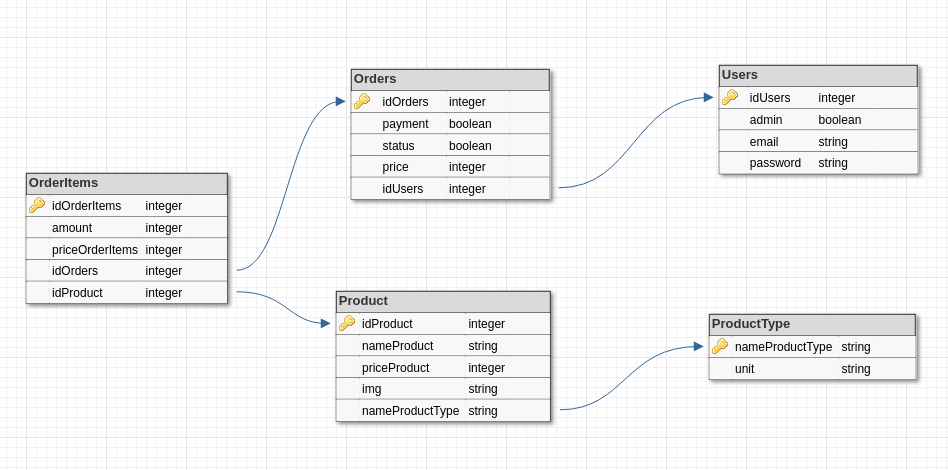
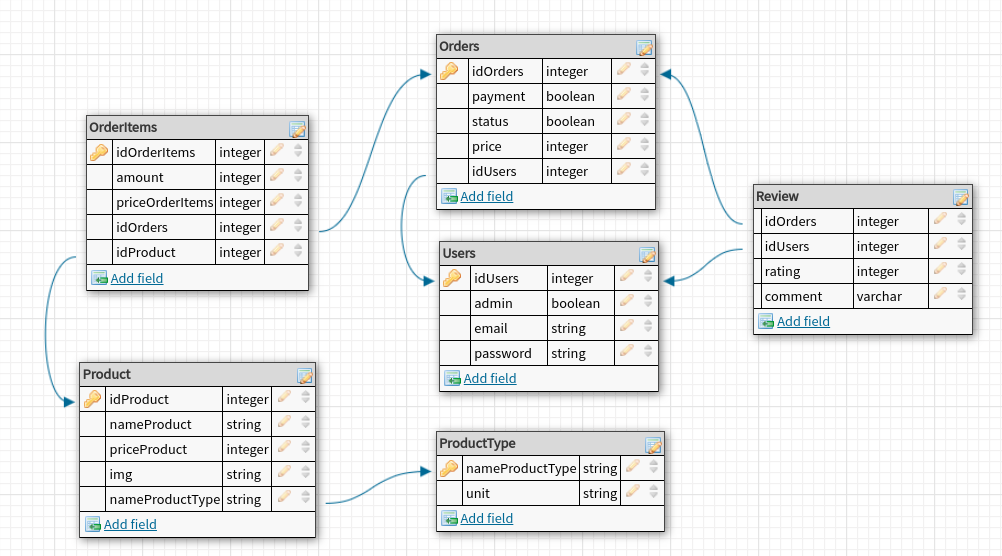
Update database

Changed region(s): [[0.0, 0.0596, 0.9789, 0.983], [0.7036, 0.6553, 0.9789, 0.834], [0.7036, 0.2979, 0.7342, 0.3277]]

diff --git a/third_sprint/database.tex b/third_sprint/database.tex
@@ -10,9 +10,9 @@
 
 \begin{itemize}
   \item[\textbf{Users:}] Contains the Users, both admins and non-admins. The
-    email is used to identify User at login, so no username is needed.
+    email is used to identify the User at login, so no username is needed.
   \item[\textbf{Orders:}] Used to represent the shopping basket before an
-    Order was made (\mintinline{python}{payment == False}) an Order that has
+    Order was made (\mintinline{python}{payment == False}), an Order that has
     been paid but not yet processed and shipped (\mintinline{python}{payment
     == True and status == False}), as well as finished Orders
     (\mintinline{python}{status == True}). Each Order has one User.
@@ -23,7 +23,13 @@
     price of the Product at the time it was paid.
   \item[\textbf{ProductType:}] The different possible types of a product. With
     each ProductType there is an associated unit in which a given amount
-    of that ProductType is measured.
-  \item[\textbf{Product:}] The merchandise, including name, price, image and
-    ProductType.
+    of that ProductType is measured. These can be used when searching for
+    products.
+  \item[\textbf{Product:}] The merchandise, including name, availability,
+  price, image and ProductType. Price and availability are used for sorting.
+  \item[\textbf{Review:}] A review by a User on a Product, containing a rating
+    and an optional comment. Only one review per product is allowed, if the
+    same user tries to add another review, it overwrites the previous one. The
+    rating is used for sorting.
 \end{itemize}
+
